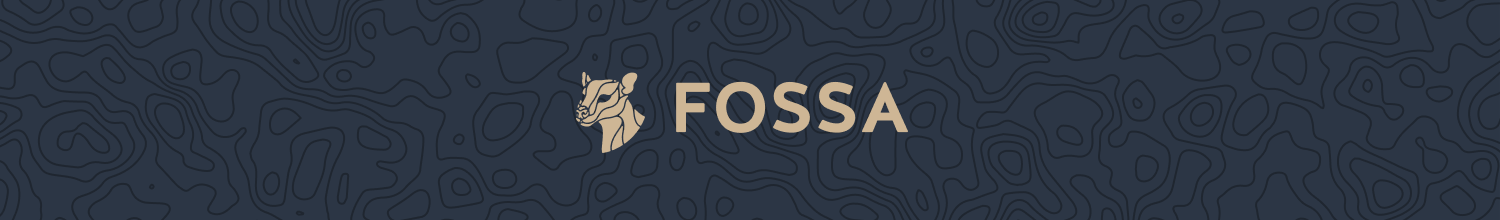
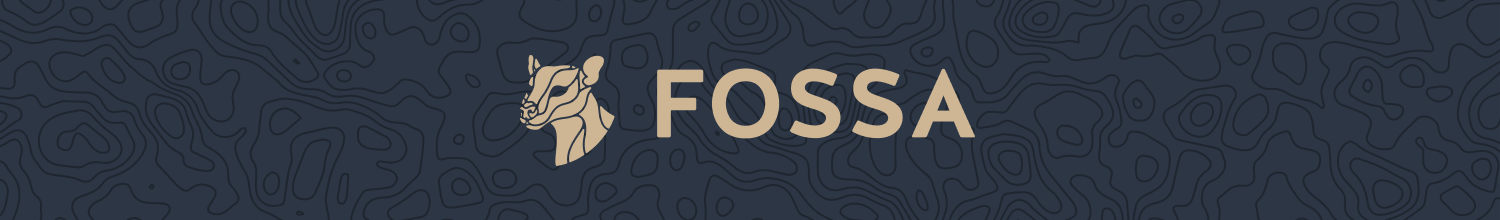
doc(readme): resize header

Changed region(s): [[0.3373, 0.2455, 0.6747, 0.7636]]

diff --git a/README.md b/README.md
@@ -1,7 +1,7 @@
 ![FOSSA](https://raw.githubusercontent.com/fossas/fossa-cli/master/header.png)
 
 <p align="center">
-  Fast, portable and reliable dependency analysis for any codebase.
+  <b>fossa-cli</b> - Fast, portable and reliable dependency analysis for any codebase.
 </p>
 
 <p align="center">
@@ -111,9 +111,9 @@ View our [Contribution Guidelines](contributing.md) to get started.
 
 `fossa` is Open Source and licensed under the [AGPLv3](https://tldrlegal.com/license/gnu-affero-general-public-license-v3-(agpl-3.0)).
 
-You are free to use `fossa` and its binaries under all common use conditions (i.e. integrating personal projects, securely scanning proprietary code, adding steps to build plugins) without contributing or releasing any integrated / proprietary code. Enjoy!
+You are free to use `fossa` for normal commercial or personal purposes.  The code you integrate does NOT fall under the scope of this license. Enjoy!
 
-You are free to contribute or develop applications on top of `fossa`, but any modifications / derivative works must be released back to the community under this license.
+You are free to modify or develop applications on top of `fossa`, but any modifications / derivative works must be contributed back to the community under the AGPL.
 
 Please contact [support@fossa.io](mailto:support@fossa.io) for additional licensing guidance.
 
